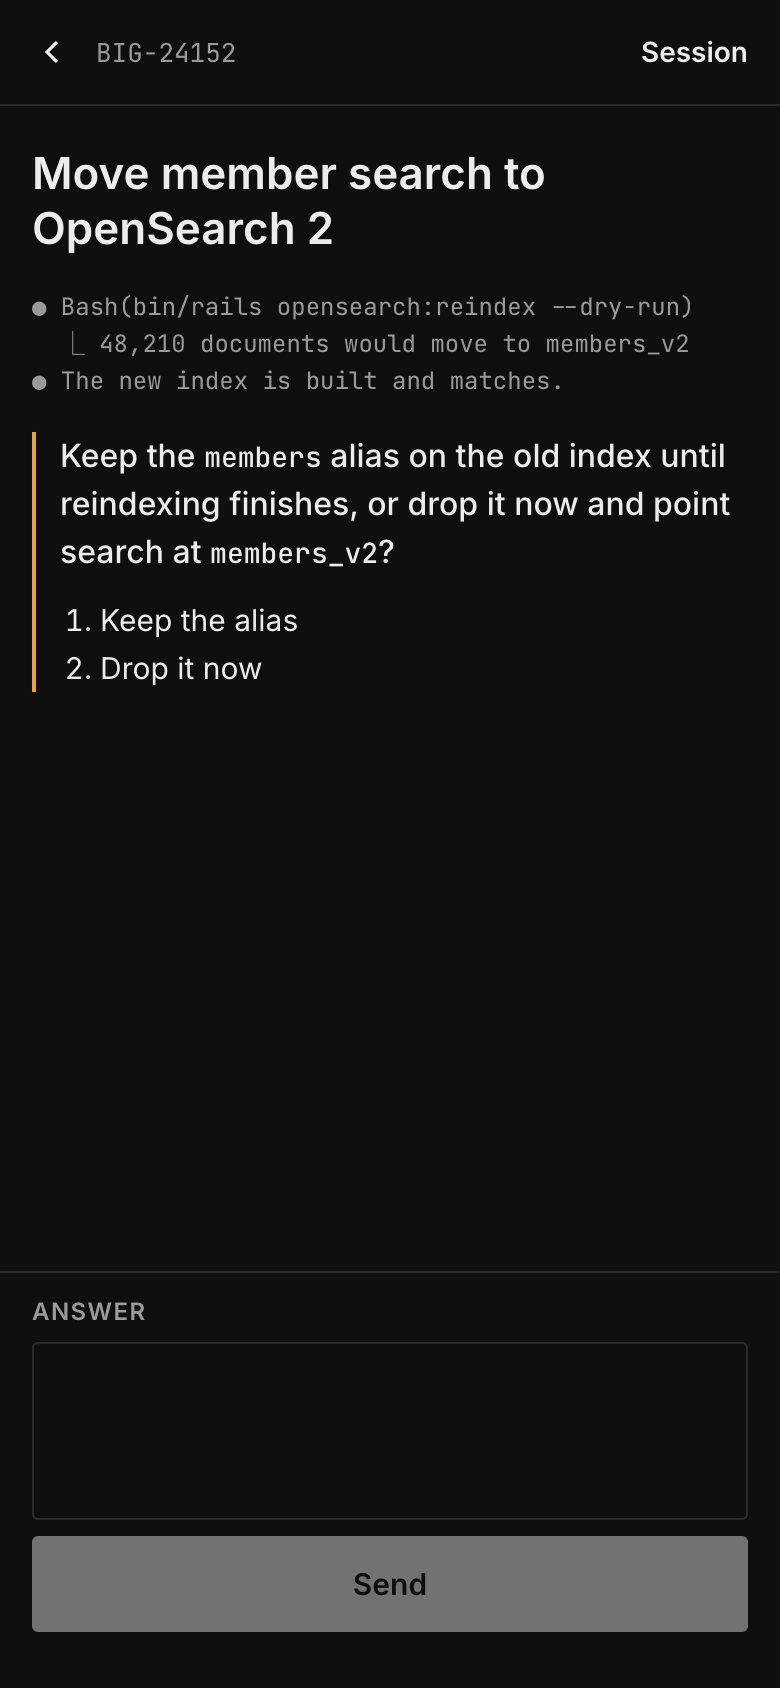
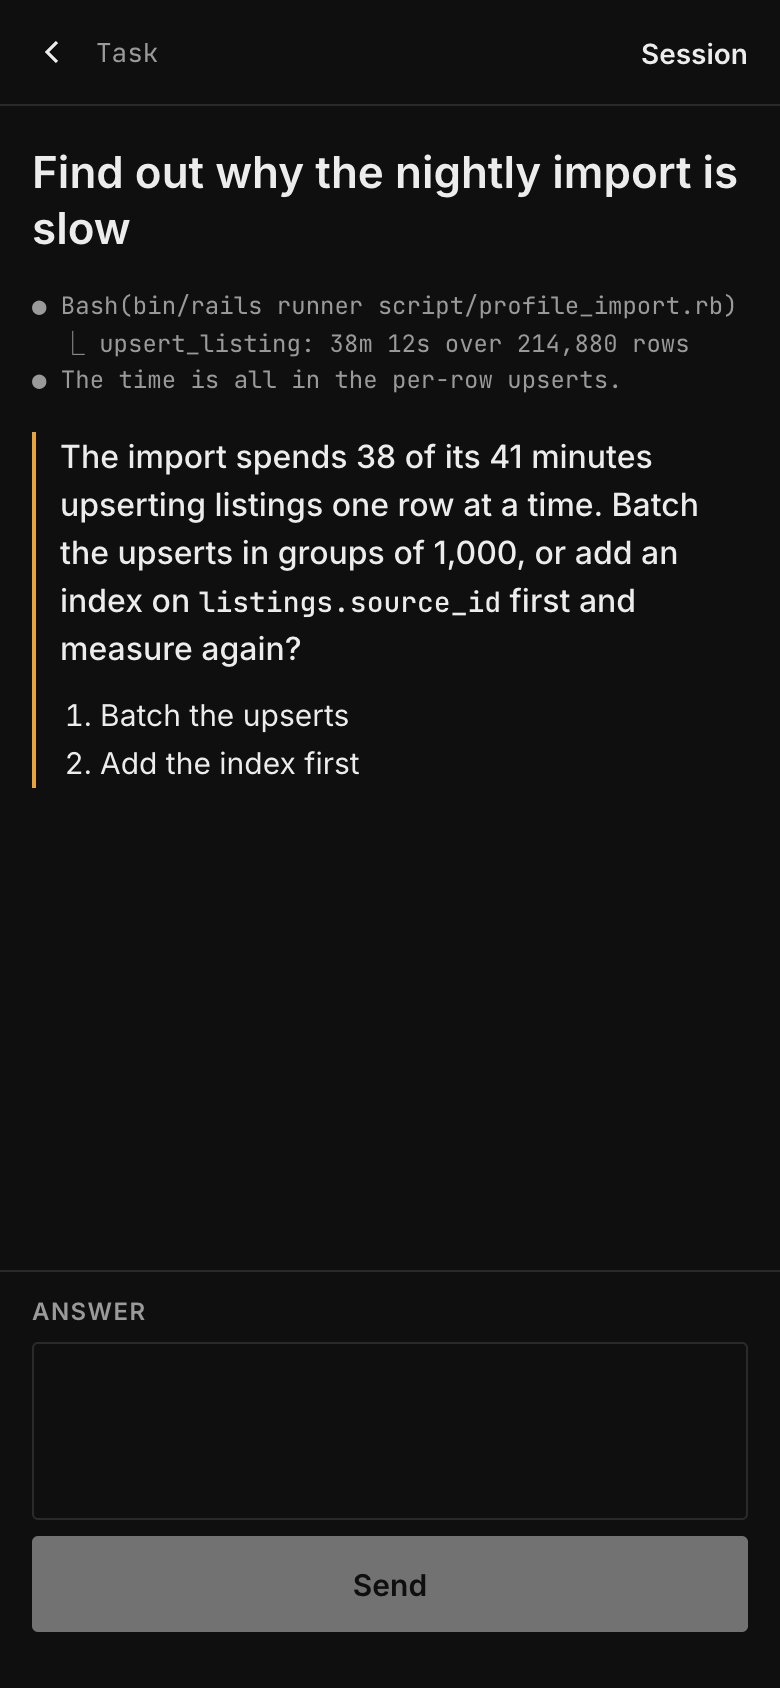
Show ship taking any work, not just Jira tickets, in the post
Re-renders the board, Continue and phone screenshots with mostly tasks,
issues, PRs and sessions, and says up front that ship takes any work.

diff --git a/_posts/2026-11-24-ship-any-model-any-device.md b/_posts/2026-11-24-ship-any-model-any-device.md
@@ -19,16 +19,16 @@ Getting mine back took two tries. The first fix was the obvious one: set `"skill
 
 With that set, the built-in never registers and a user skill named `ship` loads like it used to. If you have your own `/ship`, that's the setting you want.
 
-That fight seemed like a good excuse to look at how much `ship` itself has changed. Since the first post it has had a little over 200 commits. Most are small, but two changes matter most: it isn't tied to Claude anymore, and it works from my phone.
+That fight seemed like a good excuse to look at how much `ship` itself has changed. Since the first post it has had a little over 200 commits. The first post was about Jira tickets, and that's no longer most of what goes through it. `ship` takes a ticket, a PR, a GitHub issue, or a plain description of anything: a bug, a research question, a doc to draft, a chore that needs no repo at all. Each one gets its own directory and session, and works out for itself which repos it needs, if any. Beyond that, two changes matter most: it isn't tied to Claude anymore, and it works from my phone.
 
 ## Any harness, any model
 
 When I wrote the first post, `ship` meant Claude Code. Now a run can go to one of four harnesses: Claude Code, OpenAI's Codex CLI, the [Pi coding agent](https://www.npmjs.com/package/@earendil-works/pi-coding-agent), or Google's Antigravity CLI.
 
 ```sh
-ship --harness codex --model gpt-5.5 BIG-12345
-ship --harness pi --model openrouter/anthropic/claude-sonnet-4.5 BIG-12345
-ship --harness antigravity BIG-12345
+ship --harness codex --model gpt-5.5 "find out why the nightly import is slow"
+ship --harness pi --model openrouter/anthropic/claude-sonnet-4.5 "compare the JSON schema libraries for Ruby"
+ship --harness antigravity https://github.com/example/app/issues/42
 ship --model opus --effort high BIG-12345
 ```
 
@@ -36,11 +36,11 @@ Pi is the one that opened things up. Pi doesn't come with a model of its own. It
 
 Getting the other harnesses to behave like Claude took most of the work. Codex, Pi and Antigravity can't load Claude Code's skills or plugins, so their prompts say where each `SKILL.md` is and tell them to read and follow it, and to treat the repo's `CLAUDE.md` like an `AGENTS.md` or `GEMINI.md`. Nothing wakes them up once a turn ends, so they're told to wait on CI and review inside the turn. The watcher reads each harness's transcript format to find the context size and whether the session is between turns, so it can still type `/compact` when a session gets long. It doesn't matter which agent is in the pane.
 
-The most useful part of having four harnesses is the usage limit. When a session hits its limit, the watcher marks the run `Limit` and it moves to Needs you. `c` asks which harness, model and effort should continue it. Pick a different one and `ship` quits the stuck harness and starts the run again in the same worktree, picking up from what the run recorded. A Claude limit at 2pm no longer means the ticket waits until the limit resets.
+The most useful part of having four harnesses is the usage limit. When a session hits its limit, the watcher marks the run `Limit` and it moves to Needs you. `c` asks which harness, model and effort should continue it. Pick a different one and `ship` quits the stuck harness and starts the run again in the same worktree, picking up from what the run recorded. A Claude limit at 2pm no longer means the work waits until the limit resets.
 
-![The Continue dialog in ship status for a run that hit Claude's usage limit, with the harness switched to Pi and the model set to DeepSeek through OpenRouter](/assets/images/ship/ship-continue.png)
+![The Continue dialog in ship status for a task that hit Claude's usage limit, with the harness switched to Pi and the model set to DeepSeek through OpenRouter](/assets/images/ship/ship-continue.png)
 
-*Demo data. A run that hit Claude's limit, about to carry on in Pi with DeepSeek. The footer shows the Claude and Codex usage and Pi's recorded spend.*
+*Demo data. A research task that hit Claude's limit, about to carry on in Pi with DeepSeek. The footer shows the Claude and Codex usage and Pi's recorded spend.*
 
 ## From my phone, over Tailscale
 
@@ -58,14 +58,14 @@ tailscale serve --bg 8787 # https://<machine>.<tailnet>.ts.net
 The server only listens on localhost and has no login, because Tailscale handles that part. Only my own devices can reach it, and each request names who sent it. On an iPhone, Add to Home Screen turns it into an app that can send notifications, so my phone buzzes when a run needs an answer, hits a usage limit, gets stuck, or is ready to merge.
 
 <p style="display: flex; flex-wrap: wrap; gap: 12px;">
-  <img src="/assets/images/ship/ship-web-board.png" alt="ship web on a phone, showing the Needs you column with a question, a usage limit, a merge conflict and a stuck run" width="260">
-  <img src="/assets/images/ship/ship-web-answer.png" alt="Answering a run's question from the phone" width="260">
-  <img src="/assets/images/ship/ship-web-ship.png" alt="The Ship screen on a phone, with the Pi harness picked and fields to schedule the work" width="260">
+  <img src="/assets/images/ship/ship-web-board.png" alt="ship web on a phone, showing the Needs you column with a task asking a question, a task at a usage limit and a PR with merge conflicts" width="260">
+  <img src="/assets/images/ship/ship-web-answer.png" alt="Answering a task's question about a slow nightly import from the phone" width="260">
+  <img src="/assets/images/ship/ship-web-ship.png" alt="The Ship screen on a phone, with a research request, the Pi harness picked, No repo on, and fields to schedule the work" width="260">
 </p>
 
-*Demo data. The tickets and PRs are made up.*
+*Demo data. The work and PRs are made up.*
 
-From left to right: the board opens on Needs you, with the Claude and Codex usage meters and Pi's 24-hour cost at the top. A question from a session looks like a chat message, and I answer it in a sentence. The Ship screen takes a ticket or a plain description, with the harness, model and effort to use, and an At or Every field to schedule it for later. There's also a real terminal (xterm.js, with a key bar for Esc, Tab, arrows and Ctrl) when I need to get into a session's tmux pane directly.
+From left to right: the board opens on Needs you, with the Claude and Codex usage meters and Pi's 24-hour cost at the top. A question from a session looks like a chat message, and I answer it in a sentence. The Ship screen takes anything, a ticket, a link or a plain description, with the harness, model and effort to use, a No repo switch for work that doesn't need one, and an At or Every field to schedule it for later. There's also a real terminal (xterm.js, with a key bar for Esc, Tab, arrows and Ctrl) when I need to get into a session's tmux pane directly.
 
 This is how I want to work with these agents. A question shows up, I answer it in ten seconds from wherever I am, and the run keeps going.
 
@@ -75,20 +75,20 @@ A few other changes worth mentioning:
 
 ![The ship status kanban board, with columns for Sentry, Scheduled, Queued, Working, Needs you, In review, Ready and Done](/assets/images/ship/ship-status-board.png)
 
-*Demo data. The selected run is asking a question, which shows under the board.*
+*Demo data. Most of the board is plain descriptions: research, a runbook, a blank session, a Sentry fix. The selected task is asking a question, which shows under the board.*
 
 - **Scheduling.** `ship --at 09:00` and `ship --every weekdays --at 09:00` run work later or on a schedule, from the CLI, the dashboard or the phone.
 - **A kanban board.** `ship status` is now columns (Sentry, Scheduled, Queued, Working, Needs you, In review, Ready, Done) instead of a table.
 - **A session limit.** Work past ten open sessions waits in a queue and starts when one closes.
 - **No more auto-ship.** I took out the every-15-minutes Jira poll. I pick what gets shipped now.
-- **Jira without MCP.** `ship` talks to Jira's API directly, through one small package.
-- **Blockers first.** Shipping a ticket ships the tickets that block it first.
+- **Blank sessions.** `ship --session`, or `g` on the board, opens a session with nothing to start from, for when I just want to talk something through in a tracked session.
+- **Jira without MCP.** `ship` talks to Jira's API directly, through one small package. Shipping a ticket ships the tickets that block it first.
 
 ## Still mine
 
 Everything from the first post still applies. It's closed source, it's built around how I work, and most of these changes were worked on by `ship` sessions themselves.
 
-![Claude Code's slash command menu with /ship at the top, described as handing a BiggerPockets Jira ticket to its own unattended Claude session](/assets/images/ship/ship-slash-command.png)
+![Claude Code's slash command menu with my /ship skill at the top](/assets/images/ship/ship-slash-command.png)
 
 *My `/ship` back where it belongs, with `CLAUDE_CODE_DISABLE_SHIP` set.*
 
